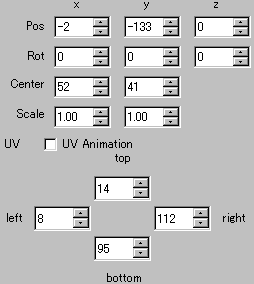
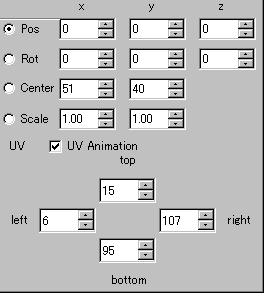
ヘルプ->チュートリアル->アニメーション追加。

diff --git a/help/doc/tutorial_03.html b/help/doc/tutorial_03.html
@@ -8,6 +8,69 @@
 </head>
 <body>
 	03 アニメーションさせる<br>
-	
+	<br>
+	<img src="win_exp_anime_frame.png"><br>
+	アニメーションさせるには基準となるフレームを選択しそこにデータを配置していくことになります。<br>
+	<br>
+	<img src="tuto_03_sel_frame.png"><br>
+	まずフレームを選択します。<br>
+	<br>
+	<img src="tuto_03_alpha_framedata.png"><br>
+	前のフレームデータが半透明で表示されるのでクリックします。<br>
+	<br>
+	<img src="tuto_03_add_framedata.png"><br>
+	すると選択しているフレームにデータが追加されます。<br>
+	<br>
+	<br>
+	①移動させる<br>
+	<br>
+	<img src="tuto_03_check_pos.png"><br>
+	Posにチェックがついているのを確認します。<br>
+	<br>
+	<img src="tuto_03_drag_pos.png"><br>
+	データをドラッグして好きな場所で放します。<br>
+	<br>
+	<br>
+	②回転させる<br>
+	<br>
+	<img src="tuto_03_check_rot.png"><br>
+	Rotにチェックがついているのを確認します。<br>
+	<br>
+	<img src="tuto_03_drag_rot.png"><br>
+	データをドラッグして好きな角度で放します。<br>
+	このときPosとCenterの値を合わせた位置を中心に回転します。<br>
+	<br>
+	<br>
+	③中心位置を変える<br>
+	<br>
+	<img src="tuto_03_check_center.png"><br>
+	Centerにチェックがついているのを確認します。<br>
+	<br>
+	データをドラッグして好きな場所で放します。<br>
+	<br>
+	<br>
+	④大きさを変える<br>
+	<br>
+	<img src="tuto_03_check_scale.png"><br>
+	Scaleにチェックがついているのを確認します。<br>
+	<br>
+	<img src="tuto_03_drag_scale.png"><br>
+	データをドラッグして好きな大きさで放します。<br>
+	<br>
+	<br>
+	<br>
+	⑤アニメーションさせる<br>
+	<br>
+	<img src="tuto_03_play_stop.png"><br>
+	作成したデータをアニメーションさせるには再生ボタンを押します。<br>
+	アニメーションはデータとデータの間で補間されなめらかに再生されます。<br>
+	停止するには停止ボタンを押します。<br>
+	<br>
+	<img src="tuto_03_pause_stop.png"><br>
+	再生中は再生ボタンが一時停止ボタンに変わります。<br>
+	一時停止した後、フレームを変更することでそのフレームでの補間されたデータをみることができます。<br>
+	<br>
+	<br>
+	<a href="tutorial_02.html">前へ</a><br>
 </body>
 </html>

diff --git a/help/doc/tutorial_02.html b/help/doc/tutorial_02.html
@@ -13,7 +13,6 @@
 	始点となる場所へカーソルを持っていき、クリックしたまま<br>
 	<br>
 	<img src="tuto_02_layer_sel_after.png"><br>
-	<br>
 	ドラッグして範囲を選択します。<br>
 	<br>
 	<br>
@@ -24,6 +23,9 @@
 	<br>
 	<img src="tuto_02_layer_add.png"><br>
 	お疲れ様です。新しくレイヤが追加されました。<br>
+	<br>
+	オブジェクト名、レイヤ名をダブルクリックすると名前を変更することができます。<br>
+	分かりやすい名前にしておくとよいでしょう。<br>
 	<br>
 	<br>
 	<a href="tutorial_01.html">前へ</a><br>

diff --git a/help/doc/win_exp_anime.html b/help/doc/win_exp_anime.html
@@ -72,6 +72,8 @@
 	Center・・・中心位置。この位置を中心に回転します。<br>
 	Scale・・・拡大率。1.00が等倍です。<br>
 	<br>
+	チェックのついている項目がマウス操作で変更できます。<br>
+	<br>
 	※座標軸について<br>
 	x軸・・・左から右にかけて値が大きくなります。<br>
 	y軸・・・上から下にかけて値が大きくなります。<br>

diff --git a/src/glwidget.cpp b/src/glwidget.cpp
@@ -204,7 +204,7 @@ void AnimeGLWidget::drawSelFrameInfo( void )
 		drawLine(QPoint(v.x0, v.y1), QPoint(v.x1, v.y1), col, 0);
 	glPopMatrix();
 
-	if ( m_bDragging ) {
+	if ( m_bDragging && !m_bPressCtrl ) {
 		switch ( m_editMode ) {
 		case kEditMode_Rot:
 			glEnable(GL_LINE_STIPPLE);
